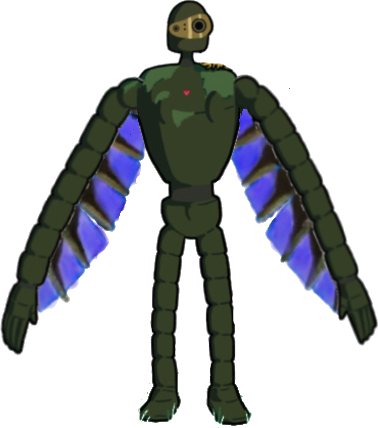
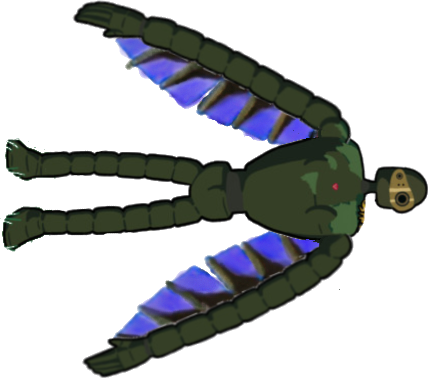
#7 Movimiento Básico

diff --git a/RobotSoldier.java b/RobotSoldier.java
@@ -8,13 +8,51 @@ import greenfoot.*;  // (World, Actor, GreenfootImage, Greenfoot and MouseInfo)
  */
 public class RobotSoldier extends Actor
 {
+    
+    public static int grado = 0;
+    private static final int OFFSET = 5;
+    private double gas = 1000;
+    
+    private GreenfootImage robotImage = new GreenfootImage("images/robot.png");
+    
     public RobotSoldier()
     {
+        setImage(robotImage);
         getImage().scale (getImage().getWidth()/6, getImage().getHeight()/6);
     }
-
+    
     public void act() 
     {
-      
-    }    
+        movement();
+        sufferDamage();
+    }
+    
+    public void movement(){
+        int x = getX();
+        int y = getY();
+        
+        setRotation(grado);
+        
+        if(Greenfoot.isKeyDown("right")){
+            grado+=OFFSET;
+        }
+        else if(Greenfoot.isKeyDown("left")){
+            grado-=OFFSET;
+        }
+        else if(Greenfoot.isKeyDown("space")){
+            getWorld().addObject(new Explosion(),x,y);
+            move(5);
+        }
+    }
+    
+    public double gethealthPercent()
+    {
+        return (double)gas/1000;
+    }
+    
+    public void sufferDamage(){
+        if(this.isTouching(InvasiveShip.class)){
+            gas -= 10;
+        }
+    }
 }

diff --git a/Vida.java b/Vida.java
@@ -1,0 +1,50 @@
+import greenfoot.*;  // (World, Actor, GreenfootImage, Greenfoot and MouseInfo)
+
+/**
+ * Write a description of class Vida here.
+ * 
+ * @author (your name) 
+ * @version (a version number or a date)
+ */
+public class Vida extends Actor
+{
+    /**
+     * Act - do whatever the Vida wants to do. This method is called whenever
+     * the 'Act' or 'Run' button gets pressed in the environment.
+     */
+    private RobotSoldier robot;
+    private int width, height;
+    
+    public Vida(int width, int height, RobotSoldier robot)
+    {
+        this.width = width;
+        this.height = height;
+        this.robot = robot;
+    }
+    
+    public int getWidth()
+    {
+        return width;
+    }
+    
+    public int getHeight()
+    {
+        return height;
+    }
+    
+    public void act() 
+    {
+        drawBar();
+    }
+    
+    public void drawBar()
+    {
+        GreenfootImage bar = new GreenfootImage (width, height);
+        bar.setColor (Color.RED);
+        
+        int healthWidth = (int)(robot.gethealthPercent()*width);
+        bar.fillRect(0, 0, healthWidth, height);
+        
+        setImage(bar);
+    }
+}

diff --git a/Explosion.java b/Explosion.java
@@ -1,0 +1,44 @@
+import greenfoot.*;  // (World, Actor, GreenfootImage, Greenfoot and MouseInfo)
+
+/**
+ * Write a description of class Explosion here.
+ * 
+ * @author (your name) 
+ * @version (a version number or a date)
+ */
+public class Explosion extends RobotSoldier
+{
+    /**
+     * Act - do whatever the Explosion wants to do. This method is called whenever
+     * the 'Act' or 'Run' button gets pressed in the environment.
+     */
+    private GreenfootImage exp = new GreenfootImage("images/Explosion.png");
+    private int Switch = 0;
+    
+    public Explosion(){
+        exp.scale(50, 50);
+        setImage(exp);
+        this.setRotation(grado);
+        move(-50);
+    }
+    
+    public void act() 
+    {
+        
+        if(Switch > 3){
+            destroy();
+            move(-5);
+            Switch = 0;
+        } else {
+            Switch++;
+        }
+    }
+    
+    public void destroy(){
+        getWorld().removeObject(this);
+    }
+    
+    public void animation(){
+        
+    }
+}

diff --git a/FirstLevelWorld.java b/FirstLevelWorld.java
@@ -13,12 +13,23 @@ public class FirstLevelWorld extends World
      * Constructor for objects of class FirstLevelWorld.
      * 
      */
+    GreenfootImage background = new GreenfootImage("images/FondoLevel1.png");
     public FirstLevelWorld()
     {    
         // Create a new world with 600x400 cells with a cell size of 1x1 pixels.
         super(600, 400, 1); 
+        generateWorld();
+    }
+    
+    private void generateWorld(){
+        setBackground(background);
+        RobotSoldier robot = new RobotSoldier();
+        
+        Vida vida = new Vida(200, 20 , robot);
+        addObject (vida, vida.getWidth()/2+10, vida.getHeight()/2+10);
+        
         addObject(new castleLv1(), 277, 189);
-        addObject(new RobotSoldier(),380, 180 );
+        addObject(robot,380, 180 );
         addObject(new Ship1(),180, 50 );
         addObject(new Ship2(),180, 100);
         addObject(new Ship3(),180, 150);

diff --git a/Ship1.java b/Ship1.java
@@ -8,11 +8,14 @@ import greenfoot.*;  // (World, Actor, GreenfootImage, Greenfoot and MouseInfo)
  */
 public class Ship1 extends InvasiveShip
 {
-    private int size = 110;
+    private int size = 4;
+    
+    private GreenfootImage ship = new GreenfootImage("images/InvasiveShip7.png");
     
     public Ship1()
     {
-        getImage().scale (getImage().getWidth()-size, getImage().getHeight()-size);
+        setImage(ship);
+        getImage().scale (getImage().getWidth()/size, getImage().getHeight()/size);
     }
       
 }

diff --git a/Ship3.java b/Ship3.java
@@ -8,10 +8,13 @@ import greenfoot.*;  // (World, Actor, GreenfootImage, Greenfoot and MouseInfo)
  */
 public class Ship3 extends InvasiveShip
 {
-    private int size = 4;
+    private int size = 10;
+    
+    private GreenfootImage ship = new GreenfootImage("images/InvasiveShip12.png");
     
     public Ship3()
     {
+        setImage(ship);
         getImage().scale (getImage().getWidth()/size, getImage().getHeight()/size);
     }
       

diff --git a/castleLv1.java b/castleLv1.java
@@ -12,6 +12,14 @@ public class castleLv1 extends Actor
      * Act - do whatever the castilloLv1 wants to do. This method is called whenever
      * the 'Act' or 'Run' button gets pressed in the environment.
      */
+    
+    private GreenfootImage ship = new GreenfootImage("images/castle1.png");
+    
+    public castleLv1()
+    {
+        setImage(ship);
+    }
+    
     public void act() 
     {
         // Add your action code here.

diff --git a/HowToPlayWorld.java b/HowToPlayWorld.java
@@ -13,9 +13,11 @@ public class HowToPlayWorld extends World
      * Constructor for objects of class HowToPlayWorld.
      * 
      */
+    
+    
     public HowToPlayWorld()
     {    
         // Create a new world with 600x400 cells with a cell size of 1x1 pixels.
-        super(600, 400, 1); 
+        super(600, 400, 1);
     }
 }

diff --git a/Ship2.java b/Ship2.java
@@ -10,8 +10,11 @@ public class Ship2 extends InvasiveShip
 {
     private int size = 8;
     
+    private GreenfootImage ship = new GreenfootImage("images/InvasiveShip4.png");
+    
     public Ship2()
     {
+        setImage(ship);
         getImage().scale (getImage().getWidth()/size, getImage().getHeight()/size);
     }
       
